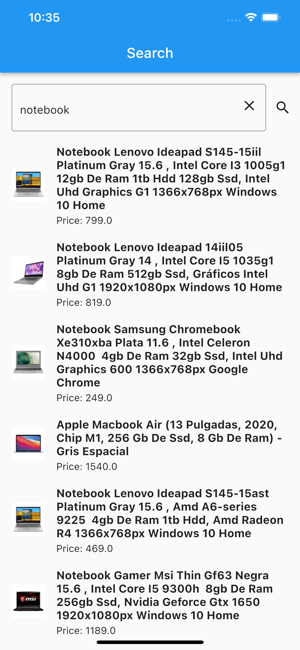
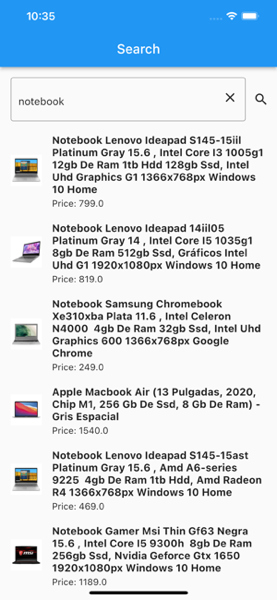
readme updated

diff --git a/README.md b/README.md
@@ -31,7 +31,7 @@ Test structure
 
 Some Screenshots of the App
 
-![](adviqo_challenge/media/screenshot/search.png) ![](adviqo_challenge/media/screenshot/detail.png)
+![](media/screenshot/search.png) ![](media/screenshot/detail.png)
 
 # Tools
 Bloc State management system
